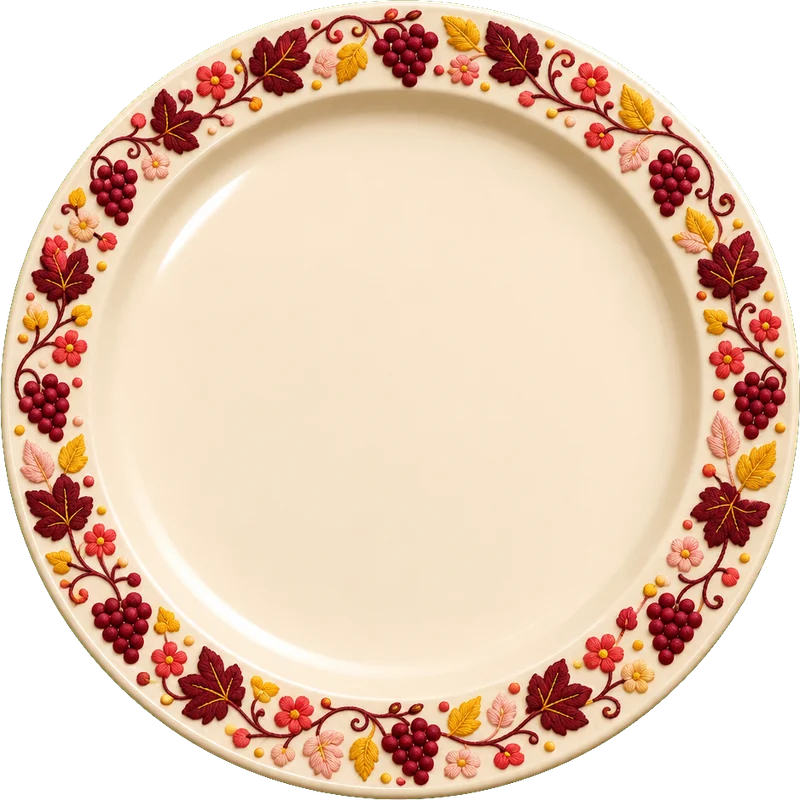
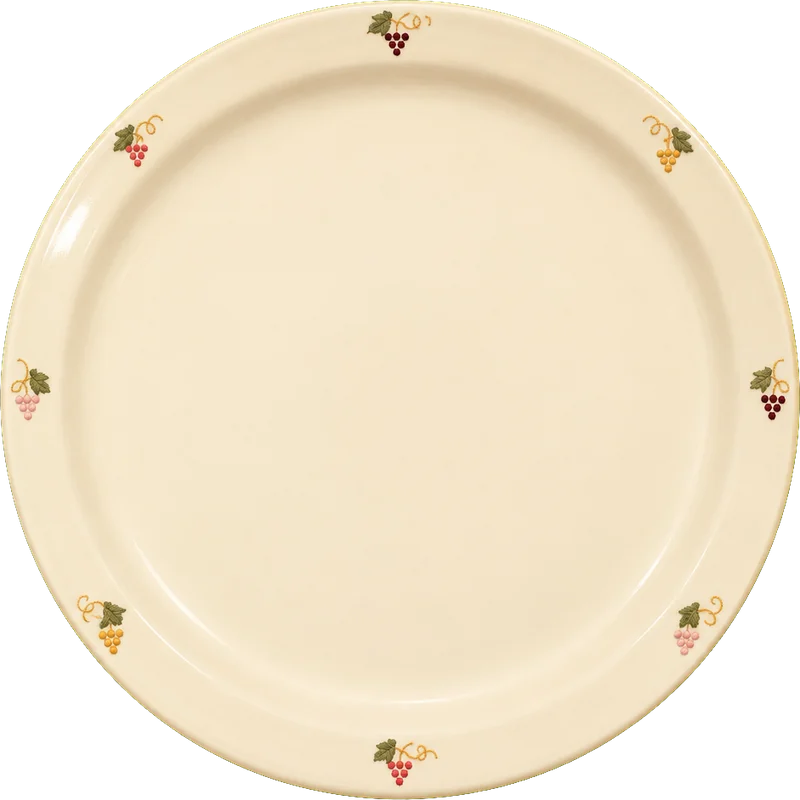
Plate: back to v6 size, thin rim with small soft ornament, slices fill the well (R 160)
Claude-Session: https://claude.ai/code/session_019jQ4HNC6F1M6arDso6kQeq

Changed region(s): [[0.0, 0.0, 1.0, 1.0]]

diff --git a/components/Wheel.tsx b/components/Wheel.tsx
@@ -35,7 +35,7 @@ const INK = ["#FFF1DC", "#3B0D18", "#3B0D18", "#3B0D18"];
 const colorOf = (i: number, n: number) => (i === n - 1 && n % SLICE_COLORS.length === 1 ? 2 : i % SLICE_COLORS.length);
 
 const PLATE = 200;     // painted plate radius (the image is cropped to the plate's circle)
-const R = 156;         // slice radius = the plate's inner well (narrow embroidered rim stays visible)
+const R = 160;         // slice radius = the plate's inner well (thin rim, small ornament)
 const FORK_TIP = -R - 10;                // pointer tip touches the slices' outer edge (labels stay readable)
 const FORK_H = 66;                       // pointer length (see Fork)
 const TOP = Math.floor(FORK_TIP - FORK_H) - 6;

diff --git a/app/globals.css b/app/globals.css
@@ -1525,3 +1525,7 @@ main, .page { overflow-x: clip; }
 .header::after { filter: none; }
 .chapter:last-of-type { padding-bottom: var(--s8); }
 @media (max-width: 640px) { .sign { --f: clamp(36px, 11vw, 50px); } }
+/* plate back to its v6 size — Sandro: the plate was fine, the ornament was too big */
+.hero__stage { width: min(80vw, 40svh); }
+@media (min-width: 1024px) { .hero__stage { width: min(44vw, calc((100svh - 72px - 96px) / 1.1), 580px); } }
+@media (max-width: 640px) and (max-height: 720px) { .hero__stage { width: min(70vw, 34svh); } }
